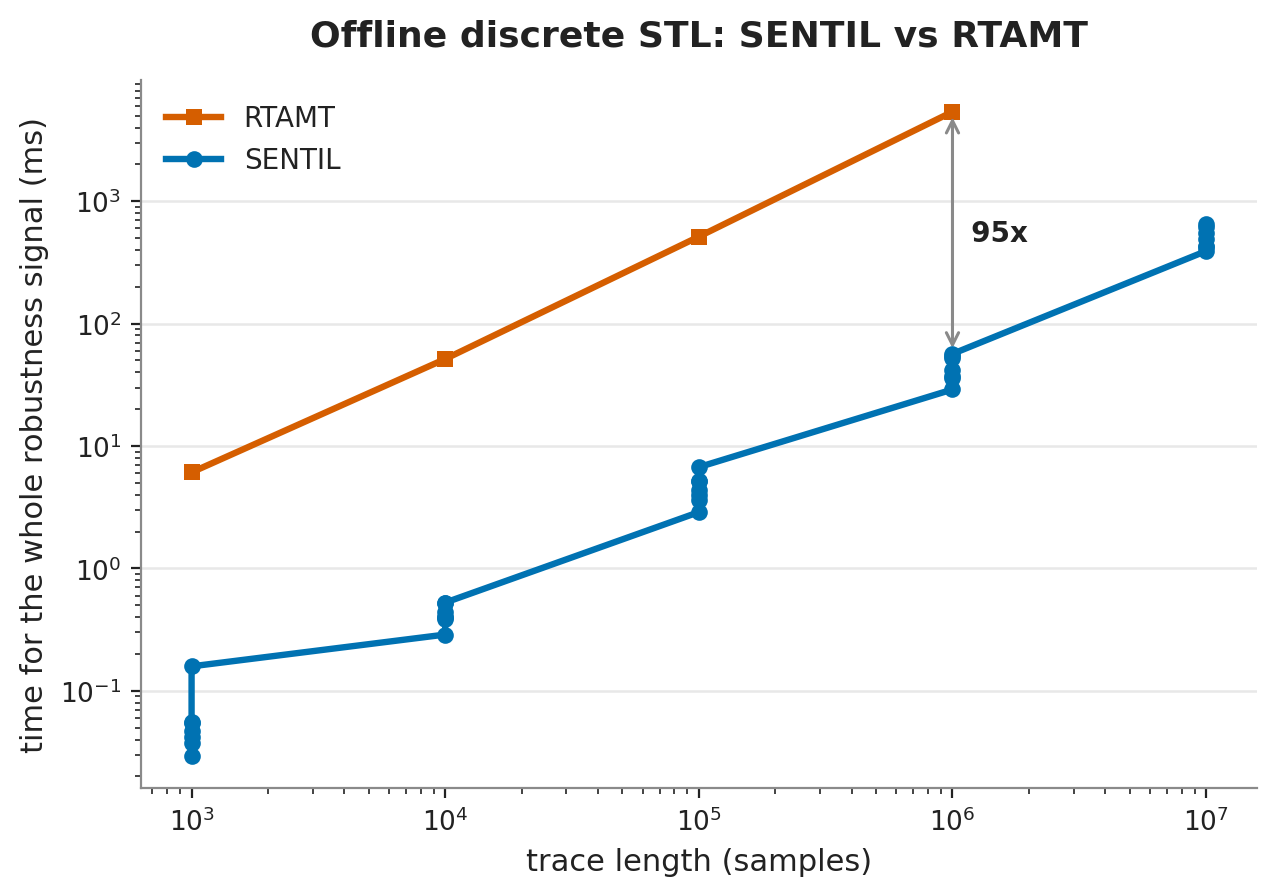
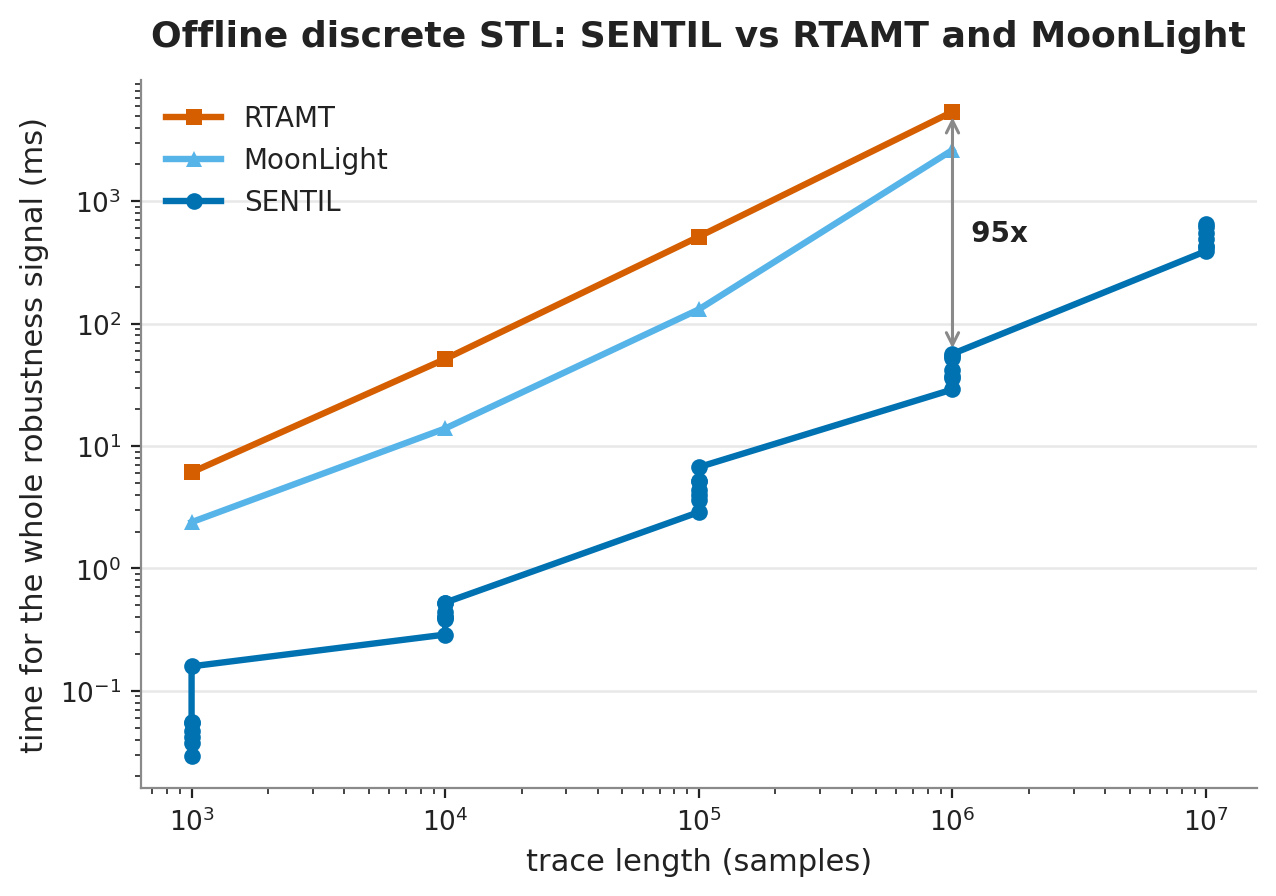
put MoonLight on the discrete comparison

diff --git a/benchmarks/runners/plot.py b/benchmarks/runners/plot.py
@@ -33,10 +33,13 @@ def length_series(records, tool, lang, question, benchmark="scalability/length")
 def discrete_offline(records):
     sx, sy = length_series(records, "sentil", "full_signal")
     rx, ry = length_series(records, "rtamt", "full_signal")
+    mx, my = length_series(records, "moonlight", "full_signal")
     if not sx or not rx:
         return
     fig, ax = plt.subplots()
     ax.plot(rx, ry, color=style.TOOL["rtamt"], marker="s", label="RTAMT")
+    if mx:
+        ax.plot(mx, my, color=style.TOOL["moonlight"], marker="^", label="MoonLight")
     style.hero_line(ax, sx, sy, "SENTIL")
     shared = sorted(set(sx) & set(rx))[-1]
     style.annotate_speedup(ax, shared, dict(zip(sx, sy))[shared], dict(zip(rx, ry))[shared],
@@ -44,7 +47,7 @@ def discrete_offline(records):
     ax.set_xscale("log"); ax.set_yscale("log")
     ax.set_xlabel("trace length (samples)")
     ax.set_ylabel("time for the whole robustness signal (ms)")
-    ax.set_title("Offline discrete STL: SENTIL vs RTAMT")
+    ax.set_title("Offline discrete STL: SENTIL vs RTAMT and MoonLight")
     ax.legend(loc="upper left")
     save(fig, "discrete_offline.png")
 
